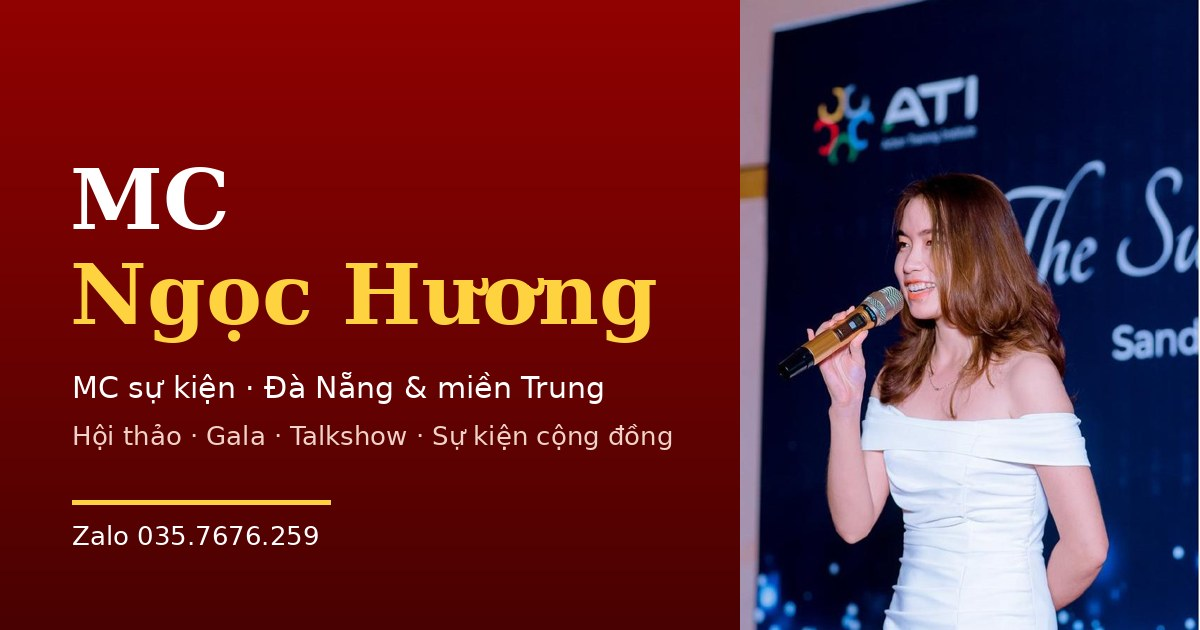
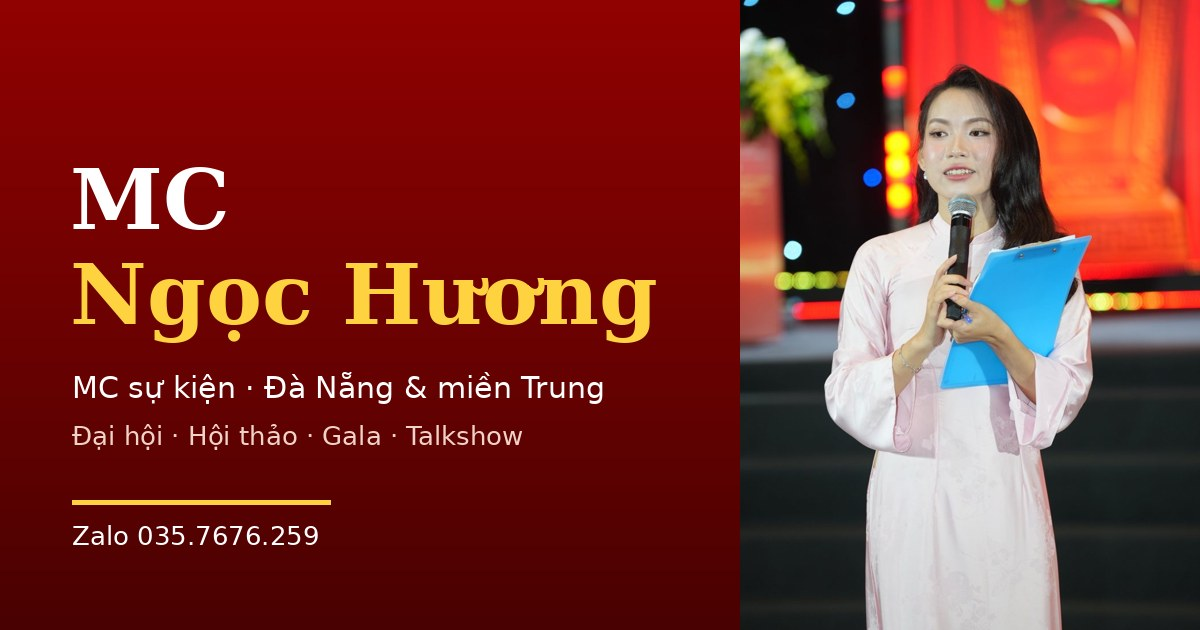
Profile MC: thêm 9 ảnh chương trình 2026, mục lọc Mới nhất 2026
Claude-Session: https://claude.ai/code/session_017qqsy2rJUY52tgZmJJtVE7

diff --git a/mc/index.html b/mc/index.html
@@ -336,14 +336,14 @@
       <span class="eyebrow">🎤 MC sự kiện · Đà Nẵng & miền Trung</span>
       <h1 class="p-name">MC<br><em>Ngọc Hương</em></h1>
       <p>Dẫn dắt hội thảo doanh nghiệp, gala, talkshow và các chương trình cộng đồng tại Đà Nẵng. Giọng dẫn rõ ràng, ấm áp, linh hoạt theo không khí từng chương trình.</p>
-      <div class="p-roles"><span>Hội thảo doanh nghiệp</span><span>Gala & Year End Party</span><span>Talkshow</span><span>Sự kiện Đoàn – Thanh niên</span><span>Chương trình thiếu nhi</span></div>
+      <div class="p-roles"><span>Hội thảo doanh nghiệp</span><span>Gala & Year End Party</span><span>Talkshow</span><span>Đại hội, hiệp hội</span><span>Sự kiện Đoàn – Thanh niên</span><span>Chương trình thiếu nhi</span></div>
       <div class="hero-ctas">
         <a href="#lien-he-mc" class="btn btn-gold">MỜI MC / LIÊN HỆ</a>
         <a href="#thu-vien" class="btn btn-outline">Xem chương trình</a>
               </div>
     </div>
     <div class="hero-visual reveal">
-      <img src="../images/profile/mc-quan-tri-dong-tien.jpg" alt="MC Ngọc Hương trên sân khấu" class="hero-img">
+      <img src="../images/profile/mc-2026-dai-hoi-van-chuyen-micro.jpg" alt="MC Ngọc Hương dẫn Đại hội Chi hội Vận chuyển du lịch Đà Nẵng 2026" class="hero-img">
       <div class="badge"><i>🎙</i><div><b>MC sự kiện</b><br>Đà Nẵng & miền Trung</div></div>
     </div>
   </div>
@@ -368,9 +368,18 @@
 <section class="section" id="thu-vien">
   <div class="container">
     <h2 class="section-title reveal">Chương trình đã dẫn</h2>
-    <p class="section-sub reveal">26 khoảnh khắc trên sân khấu. Chọn loại chương trình để lọc, bấm vào ảnh để xem lớn.</p>
-    <div class="filters" role="tablist"><button type="button" class="chip on" data-f="all">Tất cả <small>26</small></button><button type="button" class="chip" data-f="dn">Doanh nghiệp & hội thảo <small>10</small></button><button type="button" class="chip" data-f="gala">Gala & tiệc <small>5</small></button><button type="button" class="chip" data-f="talk">Talkshow & toạ đàm <small>2</small></button><button type="button" class="chip" data-f="tn">Thanh niên & cộng đồng <small>8</small></button><button type="button" class="chip" data-f="kid">Thiếu nhi <small>1</small></button></div>
+    <p class="section-sub reveal">35 khoảnh khắc trên sân khấu. Chọn loại chương trình để lọc, bấm vào ảnh để xem lớn.</p>
+    <div class="filters" role="tablist"><button type="button" class="chip on" data-f="all">Tất cả <small>35</small></button><button type="button" class="chip" data-f="new">Mới nhất 2026 <small>9</small></button><button type="button" class="chip" data-f="dn">Doanh nghiệp & hội thảo <small>10</small></button><button type="button" class="chip" data-f="gala">Gala & tiệc <small>5</small></button><button type="button" class="chip" data-f="talk">Talkshow & toạ đàm <small>2</small></button><button type="button" class="chip" data-f="tn">Thanh niên & cộng đồng <small>8</small></button><button type="button" class="chip" data-f="kid">Thiếu nhi <small>1</small></button></div>
     <div class="gallery">
+      <figure class="shot reveal" data-cat="new"><img src="../images/profile/mc-2026-dai-hoi-van-chuyen-micro.jpg" alt="Đại hội Chi hội Vận chuyển du lịch TP. Đà Nẵng lần thứ III" loading="lazy"><figcaption><span class="when">Đà Nẵng · 17/10/2026</span><h3>Đại hội Chi hội Vận chuyển du lịch TP. Đà Nẵng lần thứ III</h3><p>Nhiệm kỳ 2026 – 2030 · Hiệp hội Du lịch TP. Đà Nẵng.</p></figcaption></figure>
+      <figure class="shot reveal" data-cat="new"><img src="../images/profile/mc-2026-dai-hoi-van-chuyen-san-khau.jpg" alt="Chúc mừng thành công Đại hội lần thứ III" loading="lazy"><figcaption><span class="when">Đà Nẵng · 17/10/2026</span><h3>Chúc mừng thành công Đại hội lần thứ III</h3><p>Chi hội Vận chuyển du lịch TP. Đà Nẵng.</p></figcaption></figure>
+      <figure class="shot reveal" data-cat="new"><img src="../images/profile/mc-2026-dai-hoi-van-chuyen-buc.jpg" alt="Dẫn chương trình Đại hội tại bục phát biểu" loading="lazy"><figcaption><span class="when">Đà Nẵng · 2026</span><h3>Dẫn chương trình Đại hội tại bục phát biểu</h3><p>Chi hội Vận chuyển du lịch TP. Đà Nẵng, nhiệm kỳ 2026 – 2030.</p></figcaption></figure>
+      <figure class="shot reveal" data-cat="new"><img src="../images/profile/mc-2026-ditf.jpg" alt="Ngày hội Du lịch Quốc tế Đà Nẵng – DITF 2026" loading="lazy"><figcaption><span class="when">Đà Nẵng · 2026</span><h3>Ngày hội Du lịch Quốc tế Đà Nẵng – DITF 2026</h3><p>Da Nang International Tourism Festival 2026.</p></figcaption></figure>
+      <figure class="shot reveal" data-cat="new"><img src="../images/profile/mc-2026-dai-hoi-van-chuyen-ao-dai.jpg" alt="Áo dài trên sân khấu Đại hội" loading="lazy"><figcaption><span class="when">Đà Nẵng · 2026</span><h3>Áo dài trên sân khấu Đại hội</h3></figcaption></figure>
+      <figure class="shot reveal" data-cat="new"><img src="../images/profile/mc-2026-shb-da-nang.jpg" alt="Chương trình tại CLB Bóng đá SHB Đà Nẵng" loading="lazy"><figcaption><span class="when">Thể thao</span><h3>Chương trình tại CLB Bóng đá SHB Đà Nẵng</h3></figcaption></figure>
+      <figure class="shot reveal" data-cat="new"><img src="../images/profile/mc-2026-hau-truong-dam-vang.jpg" alt="Hậu trường Đại hội lần thứ III" loading="lazy"><figcaption><span class="when">Hậu trường · 2026</span><h3>Hậu trường Đại hội lần thứ III</h3></figcaption></figure>
+      <figure class="shot reveal" data-cat="new"><img src="../images/profile/mc-2026-don-tiep-khach-quoc-te.jpg" alt="Đón tiếp khách quốc tế" loading="lazy"><figcaption><span class="when">Đối ngoại</span><h3>Đón tiếp khách quốc tế</h3></figcaption></figure>
+      <figure class="shot reveal" data-cat="new"><img src="../images/profile/mc-2026-don-tiep-khach-quoc-te-2.jpg" alt="Đồng hành cùng đoàn khách quốc tế" loading="lazy"><figcaption><span class="when">Đối ngoại</span><h3>Đồng hành cùng đoàn khách quốc tế</h3></figcaption></figure>
       <figure class="shot reveal" data-cat="dn"><img src="../images/profile/mc-doi-thoai-thanh-nien.jpg" alt="Đối thoại Doanh nhân & Thanh niên – Sinh viên" loading="lazy"><figcaption><span class="when">Đà Nẵng · 30/10/2022</span><h3>Đối thoại Doanh nhân & Thanh niên – Sinh viên</h3></figcaption></figure>
       <figure class="shot reveal" data-cat="dn"><img src="../images/profile/mc-hoi-thao-lanh-dao.jpg" alt="Tư duy lãnh đạo trong vận hành chiến lược" loading="lazy"><figcaption><span class="when">Hội thảo · 28/10/2022</span><h3>Tư duy lãnh đạo trong vận hành chiến lược</h3><p>Diễn giả Lê Phụng Hào.</p></figcaption></figure>
       <figure class="shot reveal" data-cat="gala"><img src="../images/profile/mc-ati-gala.jpg" alt="The Success Principles – Học viện ATI" loading="lazy"><figcaption><span class="when">Gala</span><h3>The Success Principles – Học viện ATI</h3></figcaption></figure>

diff --git a/profile.html b/profile.html
@@ -332,7 +332,7 @@
       <span class="eyebrow">🎤 MC sự kiện · Giảng viên luyện giọng nói · Đà Nẵng</span>
       <h1 class="p-name">MC<br><em>Ngọc Hương</em></h1>
       <p>Dẫn dắt hội thảo doanh nghiệp, gala, talkshow và các chương trình cộng đồng tại Đà Nẵng. Từ sân khấu đến lớp học, Hương giúp mọi người nói rõ, nói hay và tự tin truyền tải thông điệp của mình.</p>
-      <div class="p-roles"><span>Hội thảo doanh nghiệp</span><span>Gala & Year End Party</span><span>Talkshow</span><span>Sự kiện Đoàn – Thanh niên</span><span>Chương trình thiếu nhi</span></div>
+      <div class="p-roles"><span>Hội thảo doanh nghiệp</span><span>Gala & Year End Party</span><span>Talkshow</span><span>Đại hội, hiệp hội</span><span>Sự kiện Đoàn – Thanh niên</span><span>Chương trình thiếu nhi</span></div>
       <div class="hero-ctas">
         <a href="#lien-he-mc" class="btn btn-gold">MỜI MC / LIÊN HỆ</a>
         <a href="#thu-vien" class="btn btn-outline">Xem chương trình</a>
@@ -364,9 +364,18 @@
 <section class="section" id="thu-vien">
   <div class="container">
     <h2 class="section-title reveal">Chương trình đã dẫn</h2>
-    <p class="section-sub reveal">26 khoảnh khắc trên sân khấu. Chọn loại chương trình để lọc, bấm vào ảnh để xem lớn.</p>
-    <div class="filters" role="tablist"><button type="button" class="chip on" data-f="all">Tất cả <small>26</small></button><button type="button" class="chip" data-f="dn">Doanh nghiệp & hội thảo <small>10</small></button><button type="button" class="chip" data-f="gala">Gala & tiệc <small>5</small></button><button type="button" class="chip" data-f="talk">Talkshow & toạ đàm <small>2</small></button><button type="button" class="chip" data-f="tn">Thanh niên & cộng đồng <small>8</small></button><button type="button" class="chip" data-f="kid">Thiếu nhi <small>1</small></button></div>
+    <p class="section-sub reveal">35 khoảnh khắc trên sân khấu. Chọn loại chương trình để lọc, bấm vào ảnh để xem lớn.</p>
+    <div class="filters" role="tablist"><button type="button" class="chip on" data-f="all">Tất cả <small>35</small></button><button type="button" class="chip" data-f="new">Mới nhất 2026 <small>9</small></button><button type="button" class="chip" data-f="dn">Doanh nghiệp & hội thảo <small>10</small></button><button type="button" class="chip" data-f="gala">Gala & tiệc <small>5</small></button><button type="button" class="chip" data-f="talk">Talkshow & toạ đàm <small>2</small></button><button type="button" class="chip" data-f="tn">Thanh niên & cộng đồng <small>8</small></button><button type="button" class="chip" data-f="kid">Thiếu nhi <small>1</small></button></div>
     <div class="gallery">
+      <figure class="shot reveal" data-cat="new"><img src="images/profile/mc-2026-dai-hoi-van-chuyen-micro.jpg" alt="Đại hội Chi hội Vận chuyển du lịch TP. Đà Nẵng lần thứ III" loading="lazy"><figcaption><span class="when">Đà Nẵng · 17/10/2026</span><h3>Đại hội Chi hội Vận chuyển du lịch TP. Đà Nẵng lần thứ III</h3><p>Nhiệm kỳ 2026 – 2030 · Hiệp hội Du lịch TP. Đà Nẵng.</p></figcaption></figure>
+      <figure class="shot reveal" data-cat="new"><img src="images/profile/mc-2026-dai-hoi-van-chuyen-san-khau.jpg" alt="Chúc mừng thành công Đại hội lần thứ III" loading="lazy"><figcaption><span class="when">Đà Nẵng · 17/10/2026</span><h3>Chúc mừng thành công Đại hội lần thứ III</h3><p>Chi hội Vận chuyển du lịch TP. Đà Nẵng.</p></figcaption></figure>
+      <figure class="shot reveal" data-cat="new"><img src="images/profile/mc-2026-dai-hoi-van-chuyen-buc.jpg" alt="Dẫn chương trình Đại hội tại bục phát biểu" loading="lazy"><figcaption><span class="when">Đà Nẵng · 2026</span><h3>Dẫn chương trình Đại hội tại bục phát biểu</h3><p>Chi hội Vận chuyển du lịch TP. Đà Nẵng, nhiệm kỳ 2026 – 2030.</p></figcaption></figure>
+      <figure class="shot reveal" data-cat="new"><img src="images/profile/mc-2026-ditf.jpg" alt="Ngày hội Du lịch Quốc tế Đà Nẵng – DITF 2026" loading="lazy"><figcaption><span class="when">Đà Nẵng · 2026</span><h3>Ngày hội Du lịch Quốc tế Đà Nẵng – DITF 2026</h3><p>Da Nang International Tourism Festival 2026.</p></figcaption></figure>
+      <figure class="shot reveal" data-cat="new"><img src="images/profile/mc-2026-dai-hoi-van-chuyen-ao-dai.jpg" alt="Áo dài trên sân khấu Đại hội" loading="lazy"><figcaption><span class="when">Đà Nẵng · 2026</span><h3>Áo dài trên sân khấu Đại hội</h3></figcaption></figure>
+      <figure class="shot reveal" data-cat="new"><img src="images/profile/mc-2026-shb-da-nang.jpg" alt="Chương trình tại CLB Bóng đá SHB Đà Nẵng" loading="lazy"><figcaption><span class="when">Thể thao</span><h3>Chương trình tại CLB Bóng đá SHB Đà Nẵng</h3></figcaption></figure>
+      <figure class="shot reveal" data-cat="new"><img src="images/profile/mc-2026-hau-truong-dam-vang.jpg" alt="Hậu trường Đại hội lần thứ III" loading="lazy"><figcaption><span class="when">Hậu trường · 2026</span><h3>Hậu trường Đại hội lần thứ III</h3></figcaption></figure>
+      <figure class="shot reveal" data-cat="new"><img src="images/profile/mc-2026-don-tiep-khach-quoc-te.jpg" alt="Đón tiếp khách quốc tế" loading="lazy"><figcaption><span class="when">Đối ngoại</span><h3>Đón tiếp khách quốc tế</h3></figcaption></figure>
+      <figure class="shot reveal" data-cat="new"><img src="images/profile/mc-2026-don-tiep-khach-quoc-te-2.jpg" alt="Đồng hành cùng đoàn khách quốc tế" loading="lazy"><figcaption><span class="when">Đối ngoại</span><h3>Đồng hành cùng đoàn khách quốc tế</h3></figcaption></figure>
       <figure class="shot reveal" data-cat="dn"><img src="images/profile/mc-doi-thoai-thanh-nien.jpg" alt="Đối thoại Doanh nhân & Thanh niên – Sinh viên" loading="lazy"><figcaption><span class="when">Đà Nẵng · 30/10/2022</span><h3>Đối thoại Doanh nhân & Thanh niên – Sinh viên</h3></figcaption></figure>
       <figure class="shot reveal" data-cat="dn"><img src="images/profile/mc-hoi-thao-lanh-dao.jpg" alt="Tư duy lãnh đạo trong vận hành chiến lược" loading="lazy"><figcaption><span class="when">Hội thảo · 28/10/2022</span><h3>Tư duy lãnh đạo trong vận hành chiến lược</h3><p>Diễn giả Lê Phụng Hào.</p></figcaption></figure>
       <figure class="shot reveal" data-cat="gala"><img src="images/profile/mc-ati-gala.jpg" alt="The Success Principles – Học viện ATI" loading="lazy"><figcaption><span class="when">Gala</span><h3>The Success Principles – Học viện ATI</h3></figcaption></figure>
